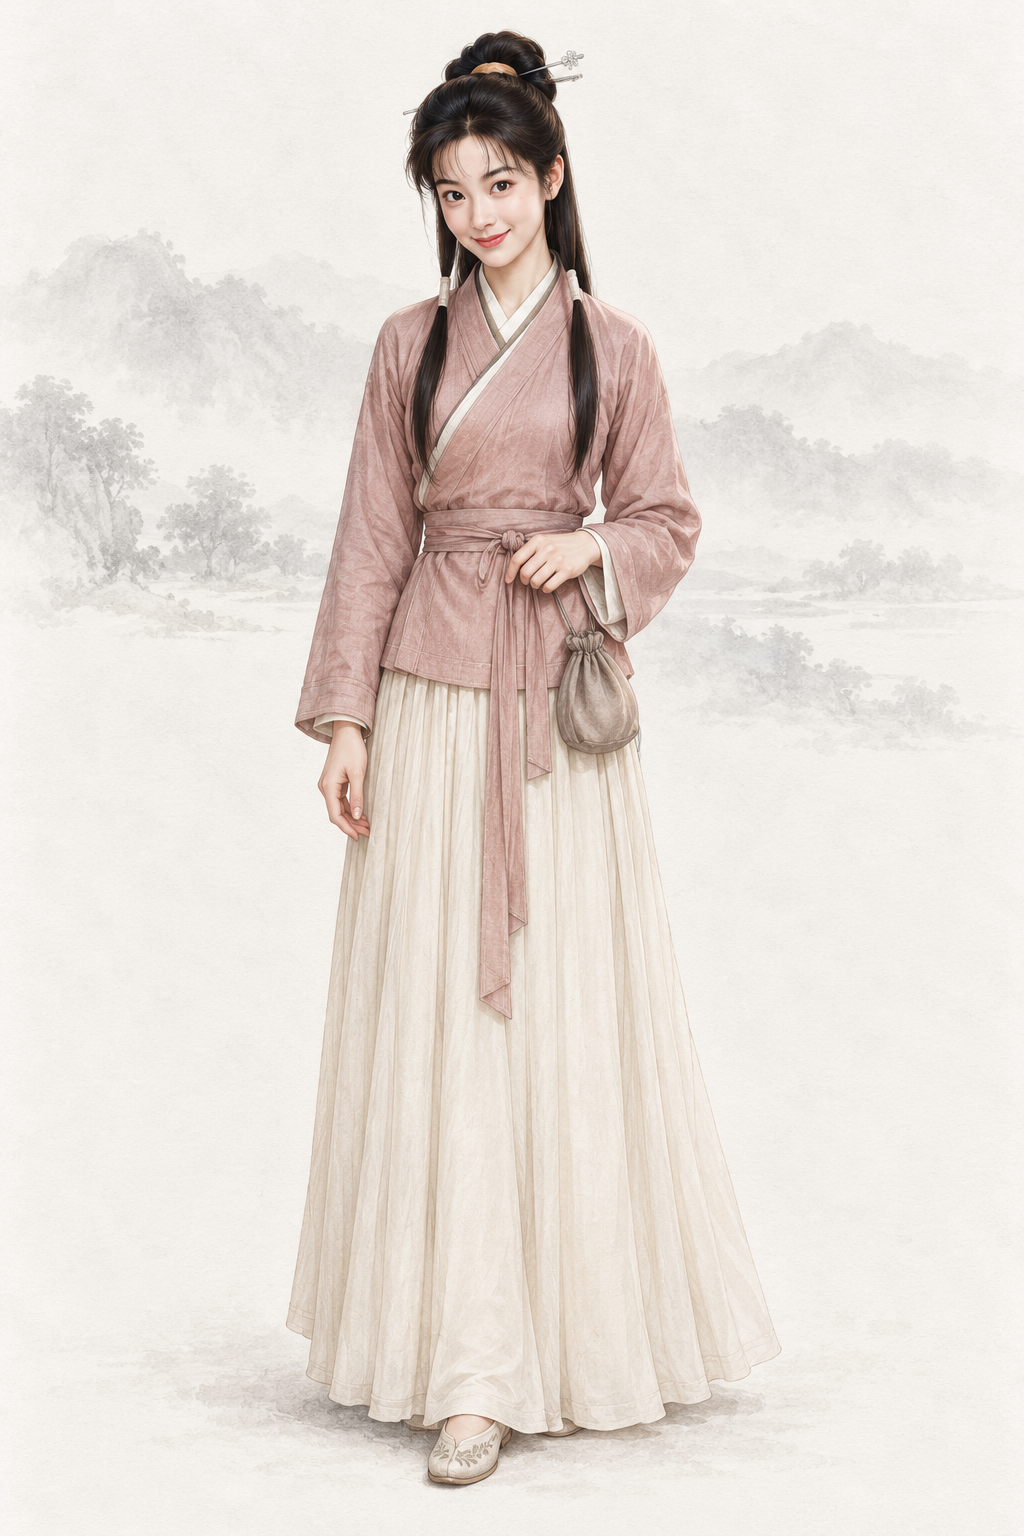
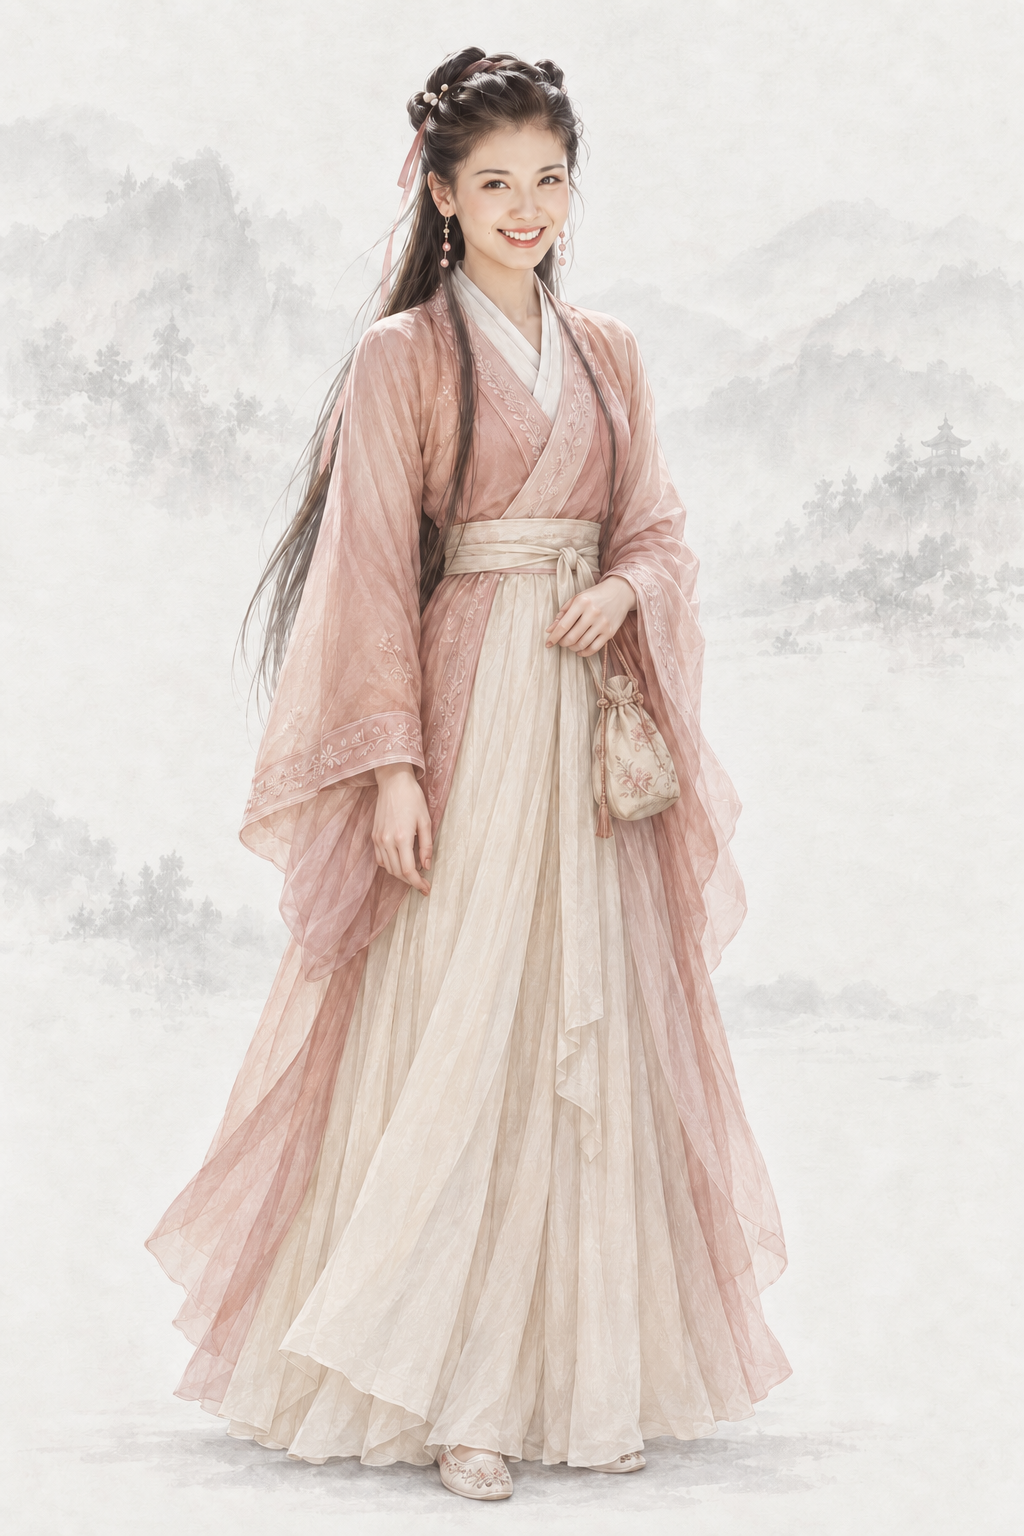
assets(character): 阿朱 base 换作者选定的 B 版并略放大眼睛（AR-44，刘涛版、按原著精细出图）
作者 17:24「天龙八部阿朱按刘涛参考，配合书中描述，精细出图」，17:45「阿朱选b，表情一样，眼睛再大一些但不要太夸张」。前置 2003 版剧照与剧照脸部特写，按原著淡绛纱衫、鹅蛋脸、眼珠灵动、易容小布包精细重画；选定后只把眼睛放大约一成。旧图备份在 codex_w17/replaced/，提示词写回 npc_azhu.md，上一版留作历史。

diff --git a/assets/default/prompts/characters/ch01-tianlong/npc_azhu.md b/assets/default/prompts/characters/ch01-tianlong/npc_azhu.md
@@ -8,38 +8,54 @@ age_variant: youth
 tier: S
 output: assets/default/character/female/ch01/por_npc_azhu__ch01_youth_alive_base.png
 manifest: assets/default/character/female/ch01/manifest.yaml
-references:
-- path: .agents/coord/portrait-generation/realism-20261001/base-reference-archives/fc10de16588f30662ce13250cfd4921a1ac4ee367aac6d10bb90cc430a5ed820.png
-  use: 已实际view。仅本人身份、年龄体型与可辨面部特征；不借旧图碎墨、纸片、斑驳、破洞或撕裂衣料。
-- path: assets/default/character/male/ch01/por_npc_xiaofeng__ch01_prime_scene_shaoshi_dragon_palm.png
-  use: 已实际view，SHA 4bddf4a7b9583d717383a938a189f113be5bbb58a4859c6d84635f14e686e922，本轮写实candidate。仅自然面手、完整人体体积、连贯衣料的渲染质量；不借萧峰身份、性别体型、须发衣装、掌势或龙影。
-- path: assets/default/baseline/character/female/ref_npc_wangyuyan__ch01_base01.png
-  use: 已实际view。仅同性别项目低饱和色卡，文档服色优先；不借身份、年龄、发式、服装、道具、旧碎墨或织纹。基线审批原样保留。
-- path: .agents/coord/imagegen-reference/user_wangyuyan_style_20260930.png
-  use: 已实际view。仅背景的浅淡水墨远景、空气层次与留白；完全忽略女性人物脸、薄纱、衣纹、肤质和姿势，水墨不能侵入本体。
 status: redo
 realism_revision: user_character_realism_20261001
-redo_reason: "面容与发饰几乎照搬剧集剧照且显少女幼态，按原著“鹅蛋脸、眼珠灵动、淡绛纱衫”画成成年年轻女子"
+references:
+- path: .agents/coord/imagegen-reference/identity-20261002/tianlong/azhu_2003_liutao_sohu2022b.jpg
+  use: 身份参考：2003《天龙八部》 剧照（作者 10-03 指定版本）；只借造型、气质与五官神韵，按项目画风重画，不照搬照片
+  sha256: 83ee82d61678075ae74831e7ff81b294a1f609c7e3d71b4f976431e1178f8948
+- path: .agents/coord/_handoff/gem/codex_w17/staging/stillface__azhu.jpg
+  use: 剧照脸部特写：由上面这张剧照裁出放大（512×512），只为看清五官；同样只借神韵，按项目画风重画
+  sha256: 39c9b65f5c421da918772ba4ec0a6a51b77ead6485f5f82d51509af0c481cecc
+- path: .agents/coord/_handoff/gem/codex_w17/out/por_npc_azhu__ch01_youth_alive_base.b3.png
+  use: 底稿：上一轮候选图（服装、姿势、构图来源），本轮只重画头部
+  sha256: a93deb01fca4fbbba5c0e37c86a73fa749ae559c5db486340df245ffbf4c2ae5
+redo_reason: "作者 10-03 AR-44：参考2003《天龙八部》造型重画 base，不要和照片一样"
 reference_upload:
-- .agents/coord/imagegen-reference/hero-20261001/classic_azhu_1997.jpg
-- assets/default/baseline/character/female/ref_npc_wangyuyan__ch01_base01.png
-- assets/default/baseline/character/female/ref_npc_xiaolongnv__ch03_base01.png
-codex_prompt_rev: 2026-10-02
+- /Users/bytedance/Projects/jinyongqunxia/.agents/wt/_prod/.agents/coord/_handoff/gem/codex_w17/staging/orig__azhu_b3.jpg
+- /Users/bytedance/Projects/jinyongqunxia/.agents/wt/_prod/.agents/coord/_handoff/gem/codex_w17/staging/stillface__azhu.jpg
+- /Users/bytedance/Projects/jinyongqunxia/.agents/wt/_prod/.agents/coord/_handoff/gem/codex_w17/out/por_npc_azhu__ch01_youth_alive_base.b3.png
+codex_prompt_rev: 2026-10-03
 classic_ref:
-  version: 1997 TVB《天龙八部》
+  version: 2003《天龙八部》
   stills:
-  - .agents/coord/imagegen-reference/hero-20261001/classic_azhu_1997.jpg
-  crop:
-    classic_azhu_1997.jpg:
-    - 0
-    - 0
-    - 395
-    - 764
+  - .agents/coord/imagegen-reference/identity-20261002/tianlong/azhu_2003_liutao_sohu2022b.jpg
 ---
 
 # 阿朱 · 人物写实修正
 
 ## Gemini 提示词
+
+> 2026-10-03 AR-44 阿朱新 base（10 号出图员，codex exec · image_gen）：作者 17:24「天龙八部阿朱按刘涛参考，配合书中描述，精细出图」，17:45「阿朱选b，表情一样，眼睛再大一些但不要太夸张」。B（候选 b3）前置 2003 版刘涛剧照与剧照脸部特写、画风基线只用小龙女一张，按原著写淡绛纱衫、鹅蛋脸、眼珠灵动、易容小布包；再以 B 为底稿只把眼睛放大约一成（y1）。下面的提示词是 B 的生成提示词；改眼睛的编辑提示词记在 manifest。上一版保留在下一节作历史。
+
+```text
+生成一张 2:3 竖幅全身人物立绘：单人、单一视角、完整全身——头顶、双手、双脚和手中器物的两端都在画面内，四周留出自然空白；人物站姿自然，身体基本朝向正面，头部端正（不歪头、不仰不俯），镜头平视。
+【参考图】第 1 张是该角色经典影视造型（2003 版）的剧照，第 2 张是同一版本的面部近景。人物的脸要明显向这一版靠拢——脸型、眉眼、鼻口、灵动的眼神和俏皮甜美的笑都要像剧照里的阿朱，让看过这一版的观众一眼认出；发式与衣裙的配色气质也借鉴剧照，但细节按下文的原著描写来画。必须重新绘制成项目的手绘插画画风：不要照片质感，不要照搬剧照的构图、光影、背景和姿势，不要做成照片修图或照片贴脸。最后一张是本项目画风基线：画风、用色、光线、质感和暖浅灰纸底加淡水墨背景以它为准，但不取基线人物的长相。
+【画风】写实手绘古风人物插画，与本项目写实武侠角色立绘同一画风，像功力深厚的画师用细腻笔触画出的真实人物。手绘插画质感，不是 CG 渲染：不要过度光滑的皮肤、完美对称的五官、塑料高光、过度锐利的发丝；保留自然的笔触和细微不完美。皮肤有真实质感——细小毛孔、细纹、晒痕和自然的左右不对称，不磨皮、不油亮；头发是一缕缕自然的发丝和少量碎发；布料看得出经纬纹理、厚薄和自然垂坠的褶皱，带穿用过的轻微旧化，但完整不破烂；整体设色低饱和、沉稳；柔和的自然光从左上方照来，明暗过渡自然，不打舞台光、轮廓光或美颜柔光。不是照片，不是三维渲染，不是动漫或游戏 CG，也不是油画（没有厚涂笔触和画布纹理）。
+【背景】不透明的暖浅灰色纸底，只在远处有极淡的水墨远山和薄雾，大面积留白；人物与背景明暗分明、轮廓边缘干净完整（后续要自动抠图），水墨和纸纹只在背景里，不侵入人物和衣服；脚下只有很淡的一点接触阴影。
+【人物】阿朱，《天龙八部》姑苏慕容家的侍女，精于易容之术；与萧峰同行、小镜湖之前，以本来面目示人。温柔聪慧、善解人意，又灵动俏皮、爱说笑。
+【原著描写】原著写她身穿淡绛纱衫、一张鹅蛋脸、眼珠灵动、肌肤白腻，笑起来俏皮动人，另有一股动人的气韵。
+【年龄与体态】原著十六七岁，按本作规定画成约二十岁的成年年轻女子，身量娇小玲珑但为成人比例（约 7 头身），衣着完整端庄、不透明、不暴露。
+【面容（精细）】鹅蛋脸、两颊柔润、下巴小巧圆润；一双明亮灵动的大眼睛，黑眼珠又黑又亮、双眼皮清楚、眼尾微微上扬，眼神机敏温暖、像在打什么俏皮主意；眉毛弯而秀长、颜色自然；鼻梁秀挺、鼻头小巧；唇形饱满、唇色自然的淡红，嘴角上扬、露出俏皮甜美的笑；肤色白腻、两颊带一点自然的红润；皮肤有细腻的真实质感与细小的不对称，睫毛、眉毛、发丝都一根根画清楚。
+【发式（精细）】乌黑长发半挽：头顶两侧各挽一个小巧的螺髻，用浅红丝带系住，插一支小巧的珍珠珠花；其余长发顺直地垂在背后，鬓边各垂一缕细发；耳下一对小珍珠耳坠。
+【服饰（精细，淡绛纱衫）】内穿暖白交领右衽中衣；外穿淡绛色（浅红中带一点赭）交领右衽窄袖短衫，外面再罩一层同色的轻纱褙子（纱有经纬纹理，轻薄但不透明，不露肌肤）；衣领与袖口有同色系的细密暗纹刺绣；腰束一条浅米色素绸腰带，打一个小巧的结；下着暖米色及踝长裙，裙褶细密自然；脚穿浅色平底绣鞋。
+【道具】腰侧挂一只合口的小绣花布包（易容用具，包口收好，不露出人皮面具）；双手空着。
+【姿态与神情】身体基本正面、微微侧身前倾，像在倾听后忍不住笑，一手轻扶腰侧布包的系带，另一手自然垂放；眼神温暖机敏，嘴角带俏皮的笑意。
+【不要】画面里不要任何文字、题款、印章、签名、水印、边框、分格或多视图；不要第二个人；不要幼态（童颜、娃娃脸、婴儿肥、儿童或少年身材、大头小身）；不要塑料感皮肤、磨皮美颜、网红脸（尖下巴大眼高鼻的模板脸）、过度对称、浓妆、偶像式打光、蜡像感；不要照片质感，不要像剧照照片、照片修图或拼贴，不要照搬剧照的背景、光影、构图和姿势；不要三维渲染或动漫大眼；不要歪头、斜镜头；不要多指、缺指（设定的伤残除外）、手与器物粘连或悬空；衣襟必须右衽（穿着者的左襟压在右襟上），不要左衽（设定为少数民族服制的除外），不要水平镜像；不要现代物品、发光特效、法阵或能量光。不要娃娃脸、婴儿肥或少女体态；不要浓妆、网红脸；不要透明暴露的纱衣；不要照搬剧照的衣服花纹和背景。
+【画风基线】随提示词上传的参考图里，最后一张是本项目的立绘画风基线：只参考它们的画风、用色、光线、质感和暖浅灰纸底加淡水墨的背景处理，整体画风必须与它们一致——精细写实的数字手绘插画，不是油画，不要厚涂笔触和画布纹理。基线图只取画风，不取长相：不要照搬基线图里人物的长相、年龄、发型、服饰和姿势。
+```
+
+## 上一版 Gemini 提示词（AR-44 刘涛版重画之前，历史，不再用于出图）
 
 > 2026-10-02 AR-32 重出（5 号出图员，codex exec · image_gen）：主要角色改为参考经典影视版剧照加项目基线生成。上传顺序：1997 TVB《天龙八部》 剧照 1 张（classic_azhu_1997.jpg），最后两张为同性别画风基线（缩小版 JPEG）。剧照只借造型、气质与面部特征，画面按项目画风重绘、不复制照片。上一版（AR-31 文字版）保留在下一节作历史。
 
